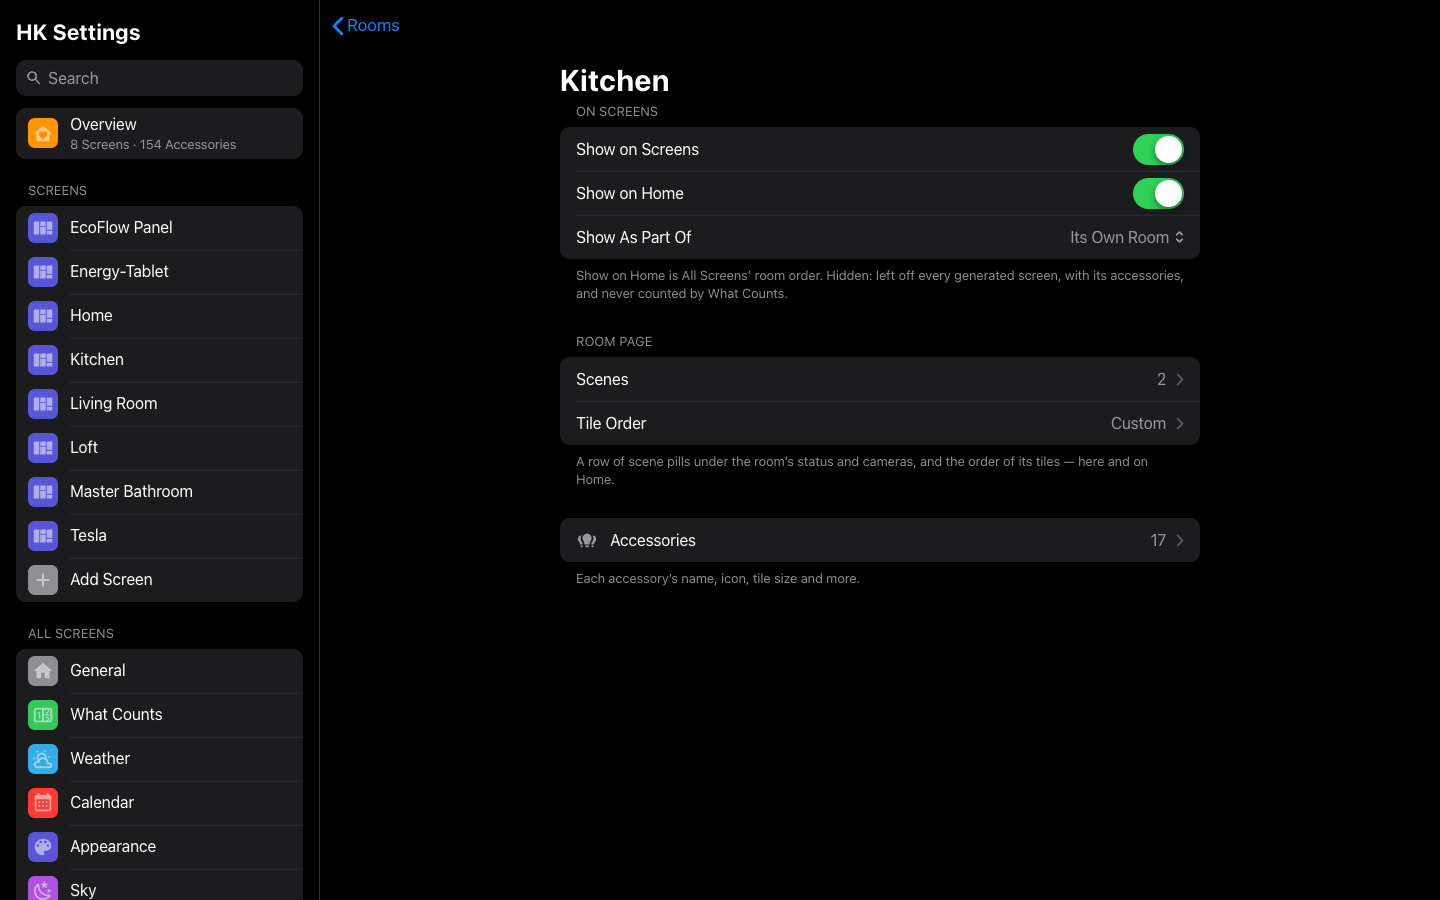
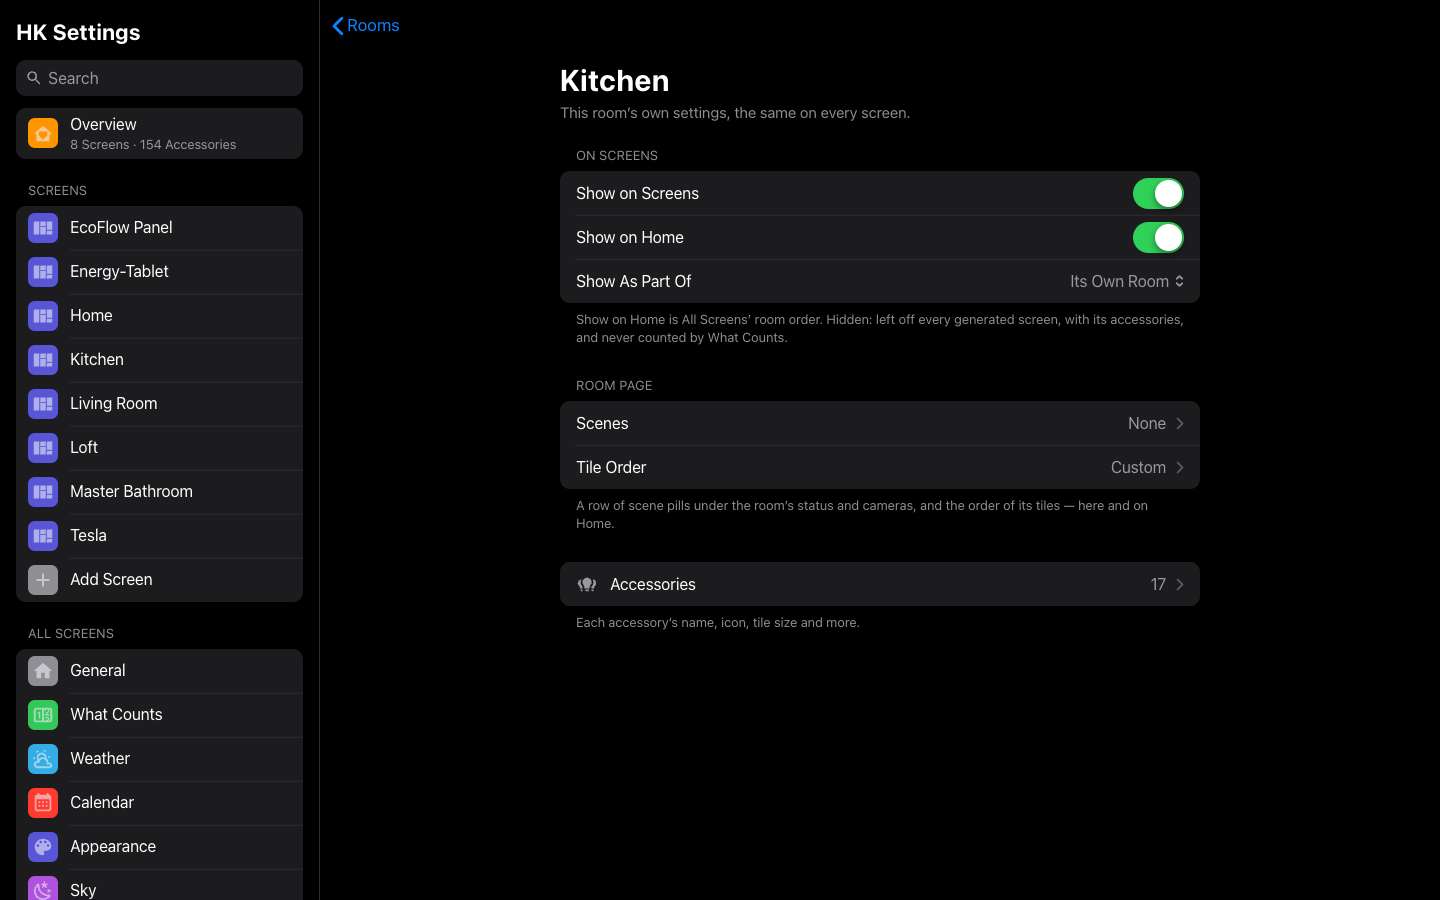
HK Frontend 1.4.2: a room in any room order opens its own settings, and dialogs whose buttons don't fit

Changed region(s): [[0.375, 0.2489, 0.8438, 0.7156], [0.375, 0.0933, 0.8438, 0.2178]]

diff --git a/custom_components/hk_frontend/frontend/panels/hk-settings.js b/custom_components/hk_frontend/frontend/panels/hk-settings.js
@@ -2012,8 +2012,8 @@
       c.appendChild(K.listEditor({ fk: 'rooms', auto: mdl.auto, minRows: 1, announce: this.announce.bind(this),
         autoFooter: 'Automatic: Home shows its rooms as the screen lists them' + (x.generated ? ' (floor by floor, then A to Z).' : '.'),
         shownHeader: 'On Home', moreHeader: 'Not on Home',
-        moreFooter: 'A room that isn’t on Home keeps its page and its row in the menu.',
-        rows: mdl.rows.map(function (r) { return { value: r.value, label: self.areaName(r.value), icon: (areas[r.value] || {}).icon || 'mdi:texture-box' }; }),
+        moreFooter: 'A room that isn’t on Home keeps its page and its row in the menu. Tap a room for its own settings, the same on every screen.',
+        rows: mdl.rows.map(function (r) { return { value: r.value, label: self.areaName(r.value), icon: (areas[r.value] || {}).icon || 'mdi:texture-box', href: self.roomHref(r.value) }; }),
         more: mdl.more.map(function (r) { return { value: r.value, label: self.areaName(r.value), icon: (areas[r.value] || {}).icon || 'mdi:texture-box' }; }),
         onAuto: function (on) {
           if (!on) { set({ room_order: az.slice(), home_rooms: 'order' }); return; }
@@ -2656,7 +2656,10 @@
           var aid = sub[0], rn = this.areaName(aid), rb = [rn, base + '/' + encodeURIComponent(aid)];
           if (sub[1] === 'order') return { title: 'Tile Order', back: rb, body: function (c) { self.a_roomOrder(c, aid); } };
           if (sub[1] === 'scenes') return { title: 'Scenes', back: rb, body: function (c) { self.a_roomScenes(c, aid); } };
-          return mk(rn, function (c) { self.h_room(c, aid); });
+          var rp = mk(rn, function (c) { self.h_room(c, aid); });
+          // opened from a screen's own room list too: say whose these are
+          rp.scope = 'This room’s own settings, the same on every screen.';
+          return rp;
         }
         return { title: title, top: true, scope: 'Applies to every screen whose Rooms are Same as All Screens; each room’s own settings, to every screen.',
                  body: function (c) { self.h_rooms(c); } };
@@ -3020,6 +3023,8 @@
     // (on every screen): shown or hidden, on Home, part of another room,
     // its tile order and its scenes.
     houseRooms() { return M.houseRoomsAsBoard(this.data.settings.rooms); }
+    // a room's own page (Rooms, All Screens), from any list of rooms
+    roomHref(a) { return '#/house/rooms/' + encodeURIComponent(a); }
     roomFollowers() {
       var bd = this.data.boards || {};
       return Object.keys(bd).filter(function (p) { return !bd[p].rooms_custom; });
@@ -3068,8 +3073,8 @@
       c.appendChild(K.listEditor({ fk: 'hrooms', auto: mdl.auto, minRows: 1, announce: this.announce.bind(this),
         autoFooter: 'Automatic: Home shows its rooms floor by floor, then A to Z.',
         shownHeader: 'On Home', moreHeader: 'Not on Home',
-        moreFooter: 'A room that isn’t on Home keeps its page and its row in the menu.',
-        rows: mdl.rows.map(function (r) { return { value: r.value, label: self.areaName(r.value), icon: icon(r.value) }; }),
+        moreFooter: 'A room that isn’t on Home keeps its page and its row in the menu. Tap a room for its own settings.',
+        rows: mdl.rows.map(function (r) { return { value: r.value, label: self.areaName(r.value), icon: icon(r.value), href: self.roomHref(r.value) }; }),
         more: mdl.more.map(function (r) { return { value: r.value, label: self.areaName(r.value), icon: icon(r.value) }; }),
         onAuto: function (on) {
           if (!on) { setR({ room_order: az.slice(), home_rooms: 'order' }); return; }

diff --git a/custom_components/hk_frontend/frontend/panels/hk-settings-kit.js b/custom_components/hk_frontend/frontend/panels/hk-settings-kit.js
@@ -221,8 +221,16 @@
     '.dlg h2{margin:0;padding:19px 16px 2px;font-size:17px;font-weight:600;line-height:22px}',
     '.dlg p{margin:0;padding:0 16px 18px;font-size:13px;line-height:18px;color:var(--hk-label)}',
     '.dlg .db{display:flex;border-top:.5px solid var(--hk-sep)}',
-    '.dlg .db button{flex:1;height:44px;border:0;background:none;color:var(--hk-tint);font-size:17px;cursor:pointer}',
+    '.dlg .db button{flex:1;min-width:0;height:44px;border:0;background:none;color:var(--hk-tint);font-size:17px;cursor:pointer;',
+    '  white-space:nowrap;padding:0 8px}',
     '.dlg .db button + button{border-left:.5px solid var(--hk-sep)}',
+    // A LABEL THAT DOESN'T FIT SIDE BY SIDE ("Follow All Screens"): the
+    // buttons stack, the action above Cancel, as iOS does -- never a label
+    // wrapped out of its button
+    '.dlg .db.stack{flex-direction:column}',
+    '.dlg .db.stack button{flex:none;width:100%}',
+    '.dlg .db.stack button + button{border-left:0;border-top:.5px solid var(--hk-sep)}',
+    '.dlg .db.stack button.cx{order:2}',
     '.dlg .db button.bold{font-weight:600}',
     '.dlg .db button.red{color:var(--hk-red)}',
     '@media (hover:hover){.dlg .db button:hover{background:var(--hk-hover)}}',
@@ -644,7 +652,7 @@
     return new Promise(function (resolve) {
       var tid = id('dt'), mid = id('dm');
       var prev = rootEl.activeElement || document.activeElement;
-      var cancel = h('button', { type: 'button', class: o.destructive ? 'bold' : '', text: o.cancel || 'Cancel' });
+      var cancel = h('button', { type: 'button', class: 'cx' + (o.destructive ? ' bold' : ''), text: o.cancel || 'Cancel' });
       var ok = h('button', { type: 'button', class: o.destructive ? 'red' : 'bold', text: o.ok || 'OK' });
       var dlg = h('div', { class: 'dlg', role: 'alertdialog', 'aria-modal': 'true', 'aria-labelledby': tid, 'aria-describedby': mid }, [
         h('h2', { id: tid, text: o.title }), h('p', { id: mid, text: o.message || '' }), h('div', { class: 'db' }, [cancel, ok])]);
@@ -662,6 +670,9 @@
       });
       bd.addEventListener('click', function (e) { if (e.target === bd) close(false); });
       rootEl.appendChild(bd);
+      // side by side unless a label would be cut: then stacked
+      var row = dlg.querySelector('.db');
+      if ([cancel, ok].some(function (b) { return b.scrollWidth > b.clientWidth + 1; })) row.classList.add('stack');
       cancel.focus();
     });
   }

diff --git a/docs/Rooms.md b/docs/Rooms.md
@@ -30,7 +30,9 @@ are **Same as All Screens**. The page says which screens set their own.
 
 ## A room’s settings
 
-**All Screens → Rooms → (the room).** These apply on every screen.
+**All Screens → Rooms → (the room).** These apply on every screen. A room
+opens here from the Rooms list, and from any room order: tap a room in All
+Screens’ Room Order or in a screen’s own list, and Back returns you there.
 
 ![A room’s own settings: shown on screens and on Home, part of another room, its scenes and tile order](images/settings-room.png)
 
@@ -60,6 +62,11 @@ Turn **Same as All Screens** off to set them for this screen only. They start
 as All Screens’ are, then change on their own: the room order (with **On
 Home** and **Not on Home**), **Rooms in Menu** and, on a generated screen,
 **Rooms on Pages**. Turn it back on to follow All Screens again.
+
+Tap a room in the screen’s list for [its own settings](#a-rooms-settings):
+its scenes, tile order, and whether it shows. Those are the room’s, the same
+on every screen; what this screen decides is only which rooms are on its Home,
+and in what order.
 
 A room’s own settings (its scenes, tile order, whether it shows) are the same
 on every screen.
